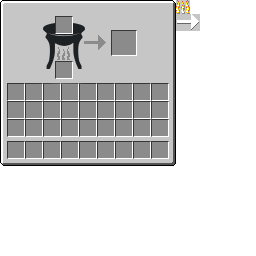
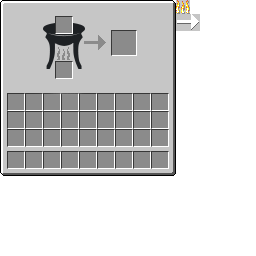
Increase the size of the Calcinator GUI, and save the GIMP image files to the resources for easier modification by the masses

Changed region(s): [[0.0, 0.5, 0.6875, 0.6875], [0.0312, 0.3125, 0.6562, 0.4688]]

diff --git a/ee3_common/ee3/common/container/ContainerCalcinator.java b/ee3_common/ee3/common/container/ContainerCalcinator.java
@@ -31,14 +31,14 @@ public class ContainerCalcinator extends Container {
         {
             for (int inventoryColumnIndex = 0; inventoryColumnIndex < 9; ++inventoryColumnIndex)
             {
-                this.addSlotToContainer(new Slot(inventoryPlayer, inventoryColumnIndex + inventoryRowIndex * 9 + 9, 8 + inventoryColumnIndex * 18, 84 + inventoryRowIndex * 18));
+                this.addSlotToContainer(new Slot(inventoryPlayer, inventoryColumnIndex + inventoryRowIndex * 9 + 9, 8 + inventoryColumnIndex * 18, 94 + inventoryRowIndex * 18));
             }
         }
 
         // Add the player's action bar slots to the container
         for (int actionBarSlotIndex = 0; actionBarSlotIndex < 9; ++actionBarSlotIndex)
         {
-            this.addSlotToContainer(new Slot(inventoryPlayer, actionBarSlotIndex, 8 + actionBarSlotIndex * 18, 142));
+            this.addSlotToContainer(new Slot(inventoryPlayer, actionBarSlotIndex, 8 + actionBarSlotIndex * 18, 152));
         }
     }
     

diff --git a/ee3_client/ee3/client/gui/GuiCalcinator.java b/ee3_client/ee3/client/gui/GuiCalcinator.java
@@ -20,6 +20,7 @@ public class GuiCalcinator extends GuiContainer {
     
     public GuiCalcinator(InventoryPlayer player, TileCalcinator calcinator) {
         super(new ContainerCalcinator(player, calcinator));
+        this.ySize = 176;
         this.calcinator = calcinator;
     }
     
